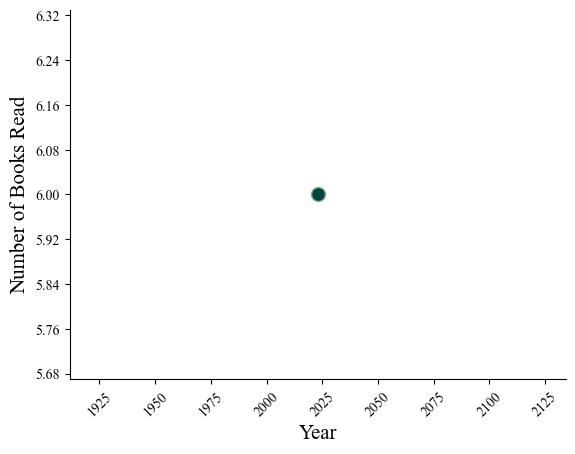
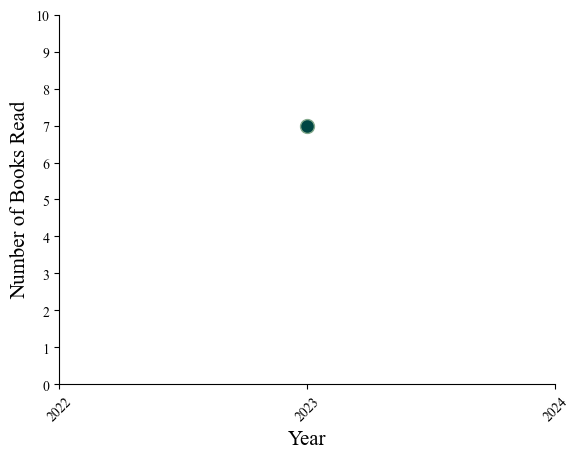
fixes

diff --git a/GoodEnoughReads/statistics/templates/statistics/statistics.html b/GoodEnoughReads/statistics/templates/statistics/statistics.html
@@ -14,7 +14,7 @@
     </h1>
 
     <div class = "container">
-      <p style = "text-align:center; color: #84A98C; font-size: 40px; margin-bottom: 3px; font-family: Andalé Mono, monospace"> <Strong> Congratulations! </Strong> </p>
+      <p style = "text-align:center; color: #84A98C; font-size: 40px; margin-bottom: 3px; font-family: Andalé Mono, monospace"> <Strong> {{Opening_Message}} </Strong> </p>
     </div>
 
     <div class="container">
@@ -39,7 +39,7 @@
       <div class ="row", style="background-color: #EDD0B1; padding-top: 5px; border-radius: 10px; margin-top: 30px;">
         <div class ="col" style = "color: #004643; font-size: 30px; margin-bottom: 3px; font-family: Cambria, Cochin, Georgia, Times, 'Times New Roman', serif">
           <p style = "text-align:center; margin-bottom: 0px;"> <Strong>Book you Reread the most</Strong></p>
-          <p style = "text-align:center; color: #000000; font-size: 18px; margin-bottom: 3px; font-family: Andalé Mono, monospace"> You reread <Strong>{{books_reread}}</Strong> the most! You must really love it. </p>
+          <p style = "text-align:center; color: #000000; font-size: 18px; margin-bottom: 3px; font-family: Andalé Mono, monospace"> {{books_reread}} </p>
         </div>
       </div>
     </div>
@@ -66,7 +66,7 @@
       </div>
     </div>
 
-    <div class="container">
+    <!-- <div class="container">
       <div class="row", style="background-color: #EDD0B1; padding-top: 5px; border-radius: 10px; margin-top: 30px;">
         <div class="col" style = "color: #004643; font-size: 30px; margin-bottom: 3px; font-family: Cambria, Cochin, Georgia, Times, 'Times New Roman', serif">
           <p style = "text-align:center; margin-bottom: 0px;"> <Strong>Genres you read this year</Strong></p>
@@ -74,7 +74,7 @@
           <img src= "{% static 'gersiteapp/img/stats/PieChartGenresyouReadthisyear.png' %}" alt = "Books you read every month per year" style = "display: block; margin-left: auto; margin-right: auto; width: 50%;">
         </div>
       </div>
-    </div>
+    </div> -->
 
     <div class="container">
       <div class="row", style="background-color: #EDD0B1; padding-top: 5px; border-radius: 10px; margin-top: 30px;">
@@ -85,6 +85,16 @@
         </div>
       </div>
     </div>
+
+    
+    <div class="container">
+      <div class="row", style = "padding-top: 5px; border-radius: 10px; margin-top: 30px;">
+        <div class="col" style = "color: #004643; font-size: 30px; margin-bottom: 3px; font-family: Cambria, Cochin, Georgia, Times, 'Times New Roman', serif">
+          <p style = "text-align:center; margin-bottom: 0px;"> <Strong>"Books are a uniquely portable magic." – Stephen King</Strong></p>
+        </div>
+      </div>
+    </div>
+
 
 
 {% endblock %}

diff --git a/GoodEnoughReads/statistics/viewsStatistics.py b/GoodEnoughReads/statistics/viewsStatistics.py
@@ -6,7 +6,12 @@ def statistics(request):
     # hard coded email (for now)
     email = request.session['email']
     stats = StatisticsModel.StatisticsModel(email)
+    
     pages_this_week = stats.NumPagesThisWeek()
+    if pages_this_week == 0:
+        Opening_message = "You got this! Try reading more next week"
+    else:
+        Opening_message = "Congratulations"
     
     books_this_month, books_per_month = stats.CalculateBooksPerMonth()
     stats.CreateBarGraph(list(books_per_month.keys()), list(books_per_month.values()), "Months", "Number of Books Read", "Number of Books you Read per Month this Year")
@@ -22,7 +27,13 @@ def statistics(request):
 
     books_reread_the_most = stats.CalcBookReread()
 
+    if len(books_reread_the_most) > 0:
+        books_reread_message = "You reread <Strong>" + books_reread_the_most + "</Strong> the most! You must really love it."
+    else:
+        books_reread_message = "You haven't reread any books."
+
     return render(request, 'Statistics/statistics.html', {'pages_this_week': pages_this_week, 
                                                           'books_this_month': books_this_month,
                                                           'books_this_year': books_this_year,
-                                                          'books_reread': books_reread_the_most})
+                                                          'books_reread': books_reread_message,
+                                                          'Opening_Message' : Opening_message})

diff --git a/GoodEnoughReads/Statistics/StatisticsModel.py b/GoodEnoughReads/Statistics/StatisticsModel.py
@@ -202,6 +202,8 @@ class StatisticsModel:
         ax.spines['right'].set_visible(False)
         ax.xaxis.set_major_locator(MaxNLocator(integer=True))
         ax.yaxis.set_major_locator(MaxNLocator(integer=True))
+        ax.set_xlim(x[0] - 1, x[-1] + 1)
+        ax.set_ylim(0, max(y) + 3)
 
         fig.savefig('gersiteapp/static/gersiteapp/img/stats/LineGraph' + title.replace(' ', '') + '.png', bbox_inches='tight', transparent=True)
 
@@ -220,7 +222,8 @@ class StatisticsModel:
                 PieExplode.append(0.03)
                 i += 1
 
-        plt.pie(y, labels = x, startangle = 90, colors = PieColors, labeldistance = 1.05, explode = PieExplode, autopct='%1.1f%%', pctdistance=1.25)
+        plt.pie(y, labels = x, startangle = 90, colors = PieColors, labeldistance = 1.1, explode = PieExplode, autopct='%1.1f%%', pctdistance = 1.25)
+        # plt.legend()
         # plt.title(title, fontproperties = self.font, fontsize = 20)
         
         fig.savefig('gersiteapp/static/gersiteapp/img/stats/PieChart' + title.replace(' ','') + '.png', bbox_inches='tight', transparent=True)
